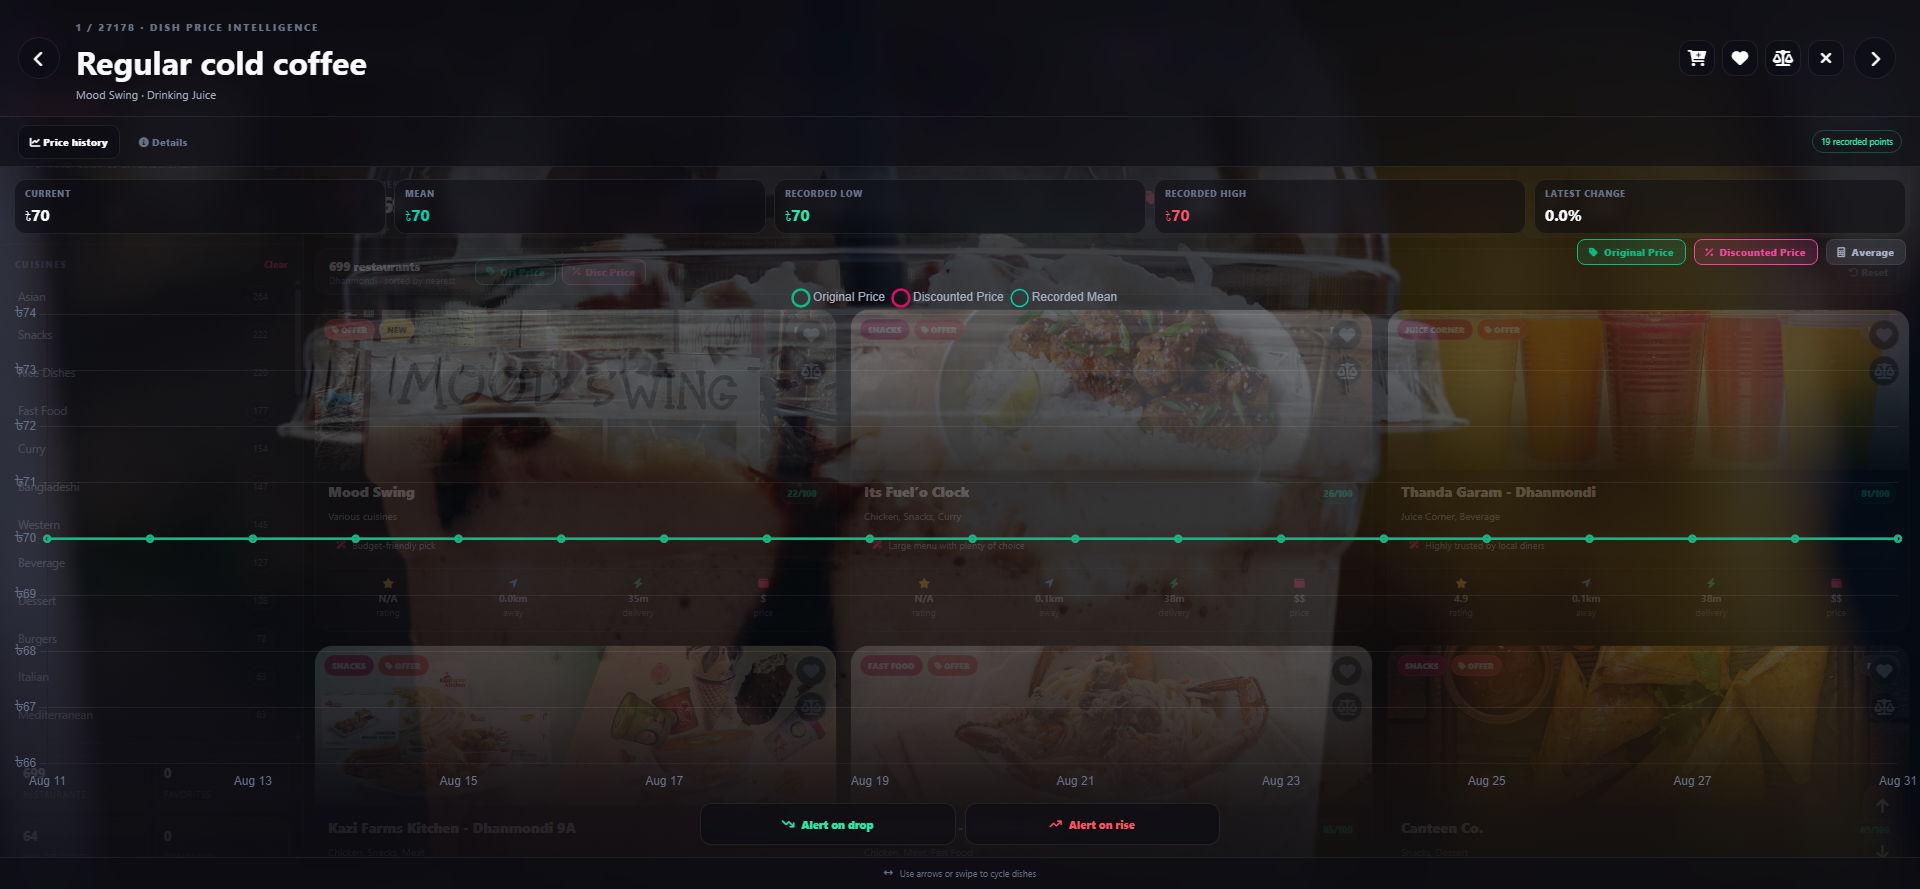
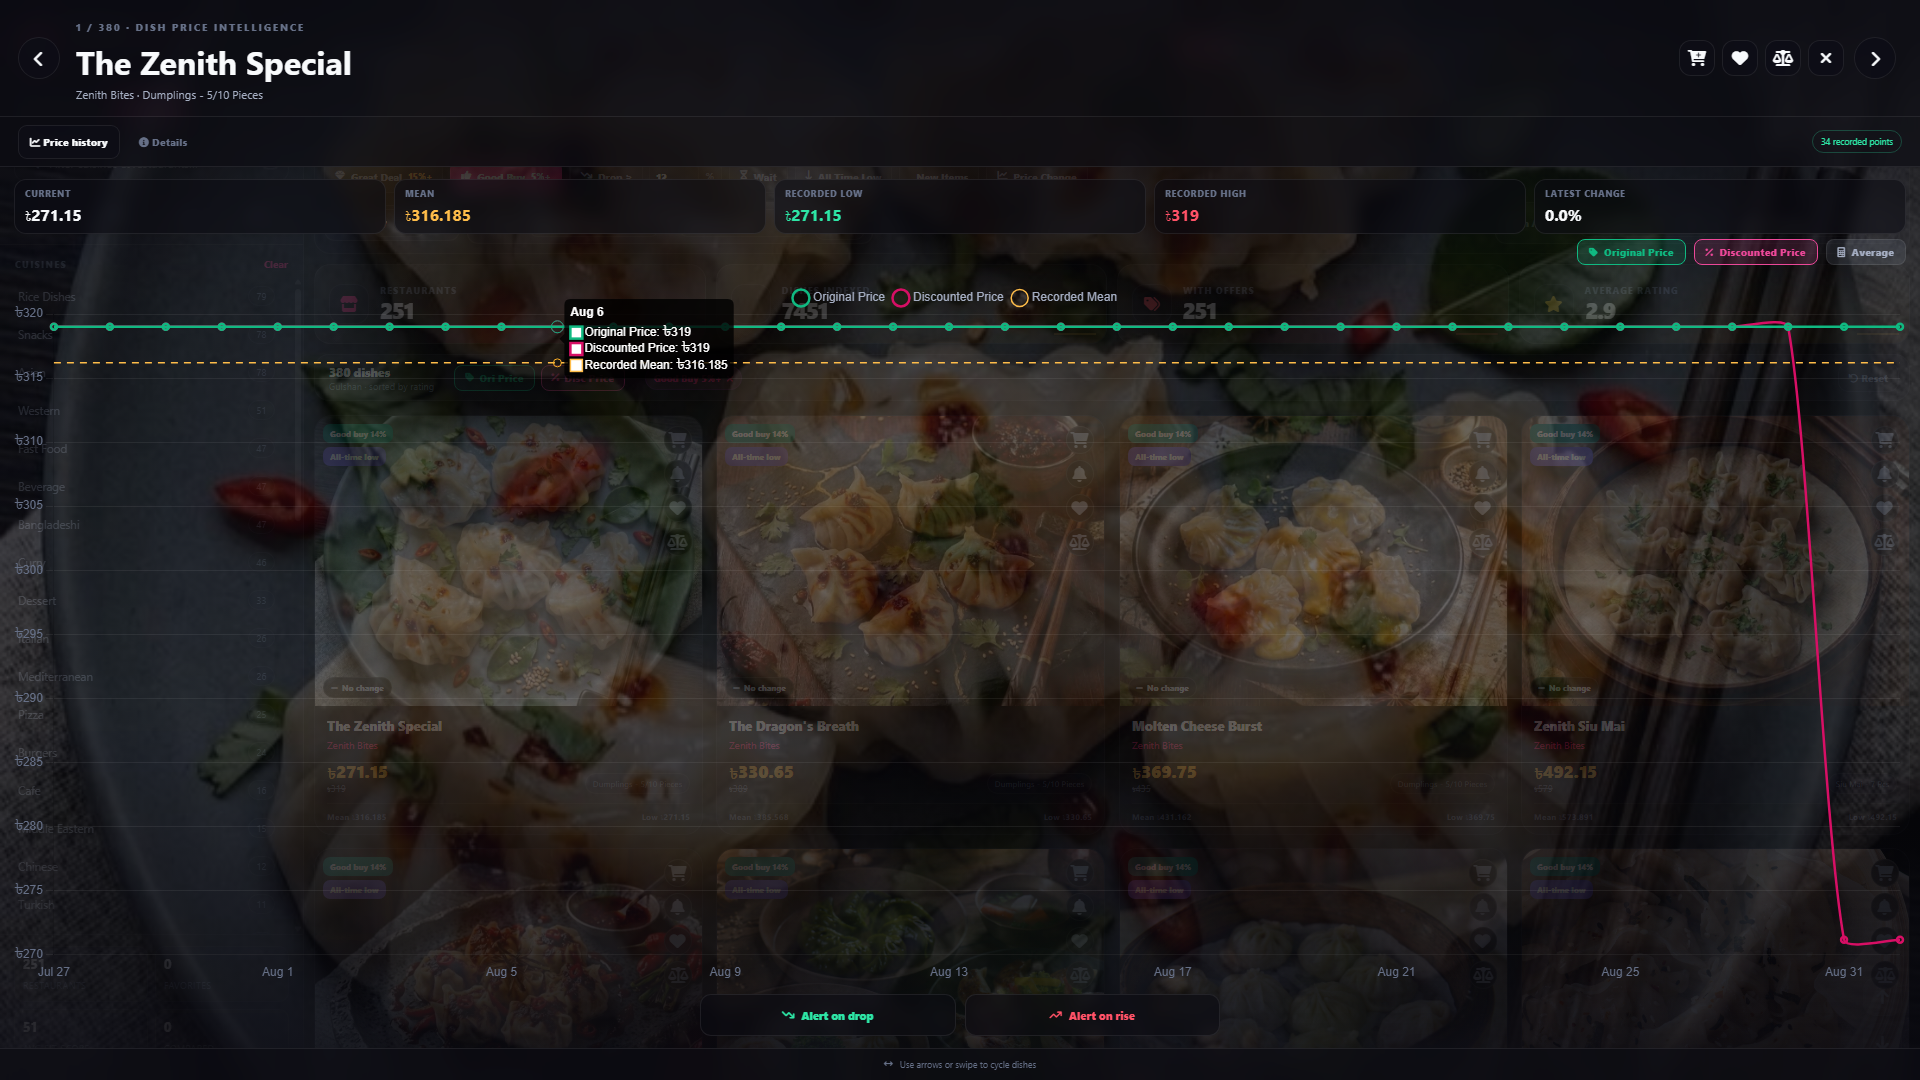
fix: eliminate Git LFS, compact daily JSON to 4MB, load continuous history from parquet

diff --git a/scrape_menus.py b/scrape_menus.py
@@ -379,11 +379,34 @@ def merge_detail(restaurant, detail):
 
 
 def load_all_existing_history():
-    """Load historical price records across all previous history snapshot JSONs and data.json."""
+    """Load historical price records across data.parquet, previous history snapshot JSONs, and data.json."""
     import glob
     existing_dish_hist = {}
 
-    # 1. Load from all history snapshot files
+    # 1. First priority: load directly and fast from PARQUET_FILE if it exists
+    if os.path.exists(PARQUET_FILE):
+        try:
+            import pyarrow.parquet as pq
+            table = pq.read_table(PARQUET_FILE, columns=['r_id', 'd_id', 'd_history'])
+            r_ids = table['r_id'].to_pylist()
+            d_ids = table['d_id'].to_pylist()
+            d_hists = table['d_history'].to_pylist()
+            for rid, did, h_json in zip(r_ids, d_ids, d_hists):
+                if rid and did and h_json:
+                    key = f"{str(rid).strip()}:{str(did).strip()}"
+                    try:
+                        p_hist = json.loads(h_json) if isinstance(h_json, str) else h_json
+                        if isinstance(p_hist, list) and p_hist:
+                            existing_dish_hist[key] = p_hist
+                    except Exception:
+                        pass
+            if existing_dish_hist:
+                print(f"  [history] Loaded {len(existing_dish_hist)} continuous dish histories instantly from {os.path.basename(PARQUET_FILE)}")
+                return existing_dish_hist
+        except Exception as e:
+            print(f"  [WARN] Failed to load history from parquet: {e}")
+
+    # 2. Fallback: load from all history snapshot files
     hist_dir = os.path.join(DATA_DIR, "history")
     if os.path.exists(hist_dir):
         for f in sorted(glob.glob(os.path.join(hist_dir, "*.json"))):
@@ -501,25 +524,43 @@ def save_output(locations, is_final=False, existing_dish_hist=None):
         for r in loc["restaurants"]
     )
 
-    output = {
-        "locations": merged_locations,
+    # Prepare compact view for JSON / web dashboard:
+    # Keeps current prices without embedding repeating 34-day histories inside every single dish,
+    # keeping JSON files under 4MB while data.parquet preserves the complete 34-day history in 2MB!
+    compact_locations = []
+    for loc in merged_locations:
+        c_loc = {k: v for k, v in loc.items() if k != "restaurants"}
+        c_rests = []
+        for r in loc.get("restaurants", []):
+            cr = {k: v for k, v in r.items() if k != "menus"}
+            cm = {}
+            for did, m in r.get("menus", {}).items():
+                cm[did] = {k: v for k, v in m.items() if k not in ("priceHistory", "price_history", "history")}
+            cr["menus"] = cm
+            c_rests.append(cr)
+        c_loc["restaurants"] = c_rests
+        compact_locations.append(c_loc)
+
+    compact_output = {
+        "locations": compact_locations,
         "totalRestaurants": total_r,
         "totalDishes": total_d,
         "scrapedAt": now_iso,
     }
+
     with _save_lock:
         with open(DATA_FILE, "w", encoding="utf-8") as f:
-            json.dump(output, f, ensure_ascii=False, separators=(',', ':'))
+            json.dump(compact_output, f, ensure_ascii=False, separators=(',', ':'))
 
         # Only build parquet and history snapshot on final save to prevent massive intermediate disk latency
         if is_final:
-            save_parquet(merged_locations, total_r, total_d, output["scrapedAt"])
+            save_parquet(merged_locations, total_r, total_d, now_iso)
             if total_d > 0:
                 hist_dir = os.path.join(DATA_DIR, "history")
                 os.makedirs(hist_dir, exist_ok=True)
                 snapshot_file = os.path.join(hist_dir, f"foodpanda_restaurants_{today_str}.json")
                 with open(snapshot_file, "w", encoding="utf-8") as f:
-                    json.dump(output, f, ensure_ascii=False, separators=(',', ':'))
+                    json.dump(compact_output, f, ensure_ascii=False, separators=(',', ':'))
                 print(f"  [snapshot] Saved daily history: {snapshot_file}")
 
     return total_r, total_d
